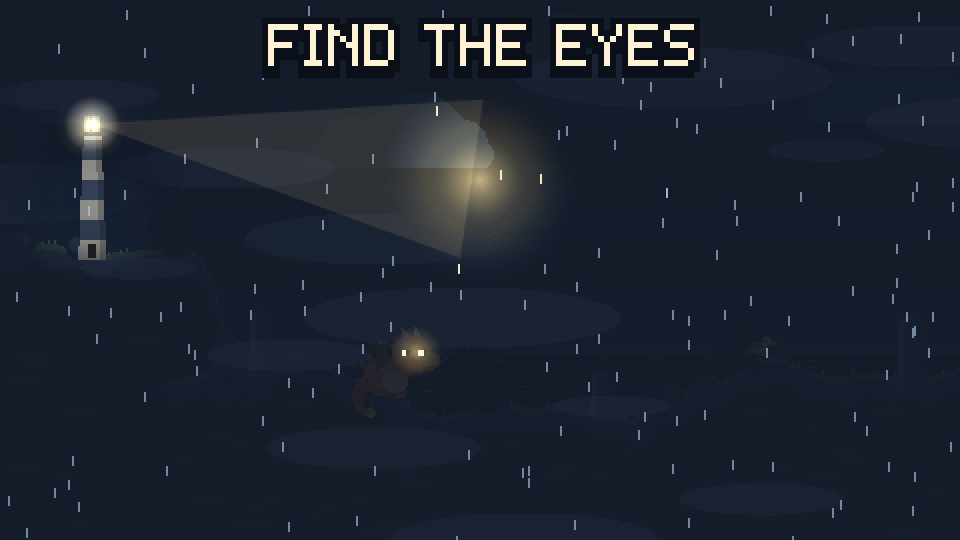
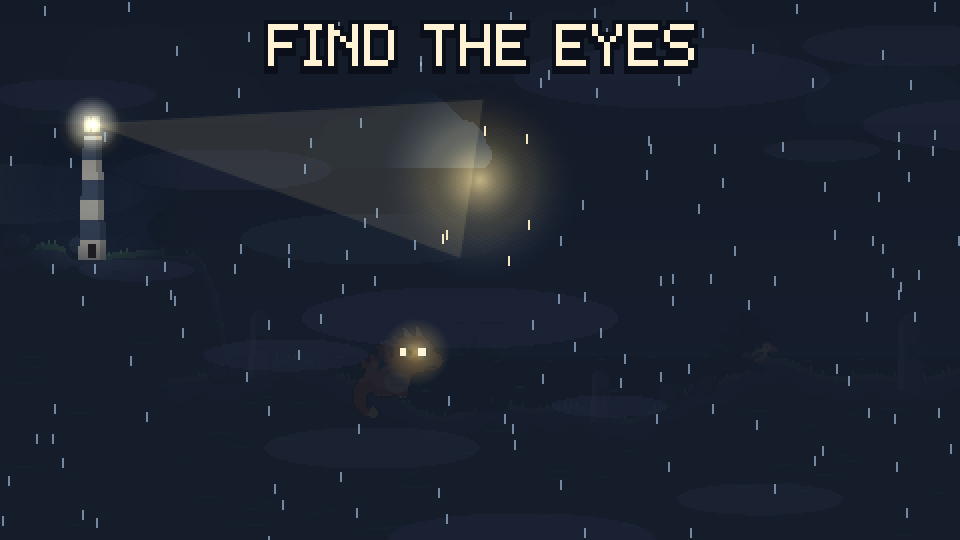
docs + pitch images for phase 2

Changed region(s): [[0.5625, 0.0889, 0.75, 0.1481], [0.9062, 0.4444, 0.9375, 0.4741], [0.5938, 0.6222, 0.625, 0.6519]]

diff --git a/DESIGN_INTENT.md b/DESIGN_INTENT.md
@@ -6,11 +6,11 @@
 | | | |
 |---|---|---|
 | ![](design/02-find-the-eyes.png) | ![](design/03-wing-glow-burst.png) | ![](design/04-brass-swell.png) |
-| *Your light cuts the fog* | *Ember's wings glow again* | *The brass swell: the flock joins* |
+| *Your light cuts the fog* | *Found! A happy wiggle, wings glowing again* | *The brass swell: the flock joins* |
 
 ## Guest experience overview
 
-A guest steps onto the footprints in front of a 10-foot projection, raises a big lantern prop, and becomes the keeper of a tiny northern lighthouse. In **about 40 seconds**, their light finds a frightened young dragon in a storm, gives it the courage to fly, and guides it home under the aurora. There is no losing, no reading, and no clicking. The guest just points a light.
+A guest steps onto the footprints in front of a 10-foot projection, raises a big lantern prop, and becomes the keeper of a tiny northern lighthouse. In **about 38 seconds** (never more than about 41), their light finds a frightened young dragon in a storm, gives it the courage to fly, and guides it home under the aurora. There is no losing, no reading, and no clicking. The guest just points a light.
 
 The line behind them is the audience. While they wait, a storybook on screen turns its own pages and a "ghost" player shows exactly what to do. By the time their turn comes, they already know how to play.
 
@@ -19,10 +19,10 @@ The line behind them is the audience. While they wait, a storybook on screen tur
 | Beat | Time | What the guest sees and does |
 |---|---|---|
 | **Next Flyer** | loop | A storybook shows the storm, the lost dragon, a ghost player demo, and "Hear it in Act II". The screen says *STEP HERE · RAISE YOUR LIGHT*. Holding the light on the lantern for 1 s starts the story. |
-| **1. Find Ember** | ~8 s | A dark, rainy cliff in the fog. The guest's lantern beam, shining from the lighthouse (a nod to the bat-signal proof of concept), cuts through the fog. Two small eyes blink. The guest holds the light steady and a Celtic knotwork ring fills. Jerky light makes Ember flinch; calm light makes it lean in. The ring completes, Ember's wings reignite in a teal and gold burst, and its name appears: **EMBER!** |
-| **2. First Flight** | 20 s | Ember follows the light out over sea stacks and standing stones, through rune rings that arrive on the beat. The flight starts wobbly under slate-blue skies. Then the rings grow larger and golder, the camera pulls back, and at the **brass swell** golden rays fan out, a horn icon appears, and four flock-mates join in formation. A missed ring is never a failure: Ember does a happy loop and the ring's sparkles find it anyway. |
-| **3. Home** | 7 s | The flock circles a stone circle under the northern lights. The path the guest flew is drawn across the sky, then lifts and becomes a **new aurora ribbon that stays for the rest of the evening**. The counter ticks up: *37 DRAGONS HOME TONIGHT*. |
-| **4. Hear it live** | 3 s | *Hear this flight in Act II. From How to Train Your Dragon · Walla Walla Symphony Youth Orchestra · Listen for the brass!* Then the screen returns to *Next Flyer*. |
+| **1. Find Ember** | ~6 s | "EMBER IS LOST!" A dark, rainy cliff in the fog. The guest's lantern beam, shining from the lighthouse (a nod to the bat-signal proof of concept), cuts through the fog. Two small eyes blink. The guest holds the light steady and a Celtic knotwork ring fills. Jerky light makes Ember flinch; calm light makes it lean in. Ember crouches, pops up, does a happy wiggle, and its wings reignite in teal and gold: **EMBER!** |
+| **2. First Flight** | 20 s | Ember follows the light (a dotted trail of light shows it's following *you*) out over sea stacks and standing stones, through rune rings that arrive on the beat. A track across the top shows the journey from the lighthouse to home. The flight starts wobbly under slate-blue skies. Ember cheers at every ring and does a barrel roll after three in a row. At the **brass swell** the sky holds its breath, then golden rays, a knotwork shockwave and confetti burst out, a horn icon appears, and four flock-mates swoop in with light trails. A missed ring is never a failure: Ember does a happy loop and the ring's sparkles find it anyway. |
+| **3. Home** | 6.5 s | The flock circles a stone circle under the northern lights. The path the guest flew is drawn across the sky like a comet, then lifts and becomes a **new aurora ribbon that stays for the rest of the evening**. A shimmer runs across the whole aurora, the counter rolls up (*37 DRAGONS HOME TONIGHT*), and a banner appears: *HEAR IT LIVE IN ACT II*. |
+| **4. Hear it live** | 3 s | Three big lines: *ACT II · How to Train Your Dragon · Listen for the brass!* Then the screen returns to *Next Flyer*. The full credit (Walla Walla Symphony Youth Orchestra) is on the storybook's music page for the line to read while they wait. |
 
 ## The one feeling
 
@@ -39,7 +39,7 @@ It should feel warm, windswept, hopeful and proud. Every guest succeeds, and eve
 - **Prop:** a big cardboard lantern tracked by motion capture drives the on-screen light. A mouse or touch works as a backup, with no code changes.
 - **Operator:** one laptop running the game locally (no internet needed). Hidden keys: fullscreen, reset, skip, debug, clear, audio.
 - **Sound:** not required. The lobby is loud and the game is fully visual. Optional ambience can be turned on if the space allows.
-- **Throughput:** about 40 s per guest plus a short handoff, so roughly 30-35 guests per 30-minute shift, or 100+ over the 90-minute pre-show. The game resets itself after 10 s without input.
+- **Throughput:** about 38 s per guest plus a short handoff, so roughly 35 guests per 30-minute shift, or 100+ over the 90-minute pre-show. The game resets itself after 10 s without input.
 - **Accessibility:** no flashing faster than 3 times per second, no fail states, and color is never the only signal (brightness, shape and motion carry every cue). It works seated, and a phone version works in landscape via the public URL.
 
 ## How it connects to the music

diff --git a/README.md b/README.md
@@ -63,12 +63,13 @@ The aurora (every guest's ribbon, plus the "N dragons home tonight" count) is sa
 | Scene | Target | Notes |
 |---|---|---|
 | Attract | loop | 1 s hold on the lantern starts a run |
-| Find Ember | ~6-10 s | 2 s steady hold on the eyes. Assists at 4 s (sparks lead the way), 6.5 s (Ember hops to the light) and 9.5 s (auto-complete) |
-| Flight | 20 s fixed | Rings on the beat (120 BPM). Brass swell at 62%, climb at 90% |
-| Home | 7 s | Ribbon joins the aurora, counter ticks up |
-| End card | 3 s | Hold the small lantern to skip |
+| Find Ember | ~5-8 s | Opens with "EMBER IS LOST!", then a 2 s steady hold on the eyes. Assists at 3 s (sparks lead the way), 4.5 s (Ember hops to the light) and 7 s (auto-complete) |
+| Flight | 20 s fixed | Rings on the beat (120 BPM), a lighthouse-to-home track across the top. Brass swell at 62% (with a ~0.7 s wind-up), climb at 90% |
+| Home | 6.5 s | Ribbon lifts into the aurora, a shimmer runs across the sky, the counter rolls up, then "HEAR IT LIVE IN ACT II" |
+| End card | 3 s | "ACT II", the title, "LISTEN FOR THE BRASS!". Hold the small lantern to skip |
+| Scene fades | 0.4 s | `DUR.FADE` |
 
-Measured by the Playwright suite: **~39 s** for a typical guest, **~44 s** for a guest who never finds Ember on their own. **Idle reset:** 10 s without input during Find Ember or Flight returns to attract. The assists only count time while someone is actually pointing, so an abandoned game resets instead of playing itself.
+Measured by the Playwright suite: **~38 s** for a typical guest, **~40.5 s** for a guest who never finds Ember on their own (the test fails above 41 s). **Idle reset:** 10 s without input during Find Ember or Flight returns to attract. The assists only count time while someone is actually pointing, so an abandoned game resets instead of playing itself.
 
 ## Connecting a motion-capture cursor
 
@@ -139,6 +140,7 @@ This builds the site, serves it, and runs Playwright:
 - **`tests/fullrun.spec.js`**: a scripted guest plays a whole run by pointer only. It asserts 35-45 s, that the ribbon persists across a refresh, that a guest who never finds Ember still finishes in time, and that the end card can be skipped.
 - **`tests/idle.spec.js`**: walking away during Find Ember or Flight resets to attract after about 10 s.
 - **`tests/input.spec.js`**: the mocap pointer path, the clear confirmation, and the portrait "rotate your phone" hint.
+- **`tests/story.spec.js`**: the story beats show up when they should: "EMBER IS LOST!" first, the Act II line during Home, and the brass swell's wind-up, firing and flock join.
 - **`tests/screenshots.spec.js`**: `npm run shots` writes every scene at 1920×1080 and phone landscape to `tests/screens/`.
 
 ## Code map

diff --git a/notes/phase2.md b/notes/phase2.md
@@ -1,0 +1,19 @@
+# phase 2: make it better
+
+| thing | after phase 1 | after phase 2 |
+|---|---|---|
+| playwright suite | 30 tests | 51 tests (story.spec + more screenshots) |
+| typical run | 39.0s | ~37.9s |
+| assisted run (never finds ember) | 44.3s | ~40.5s (test now fails above 41s) |
+| idle reset | 10.5s | 10.5s (now measured on the game clock) |
+
+## what changed, in the order we did it
+1. headroom: assists at 3 / 4.5 / 7s (were 4 / 6.5 / 9.5), fades 0.4s everywhere, home 6.5s
+2. end card: "HEAR IT LIVE IN ACT II" banner during home, end card down to 3 big lines, full orchestra credit on the storybook music page
+3. story: "EMBER IS LOST!" opener, lighthouse-to-home journey track in flight, dotted light tether to ember
+4. readability: no guest text under scale 2, outline capped at 2px so big words stop looking like slabs, bigger eye glints, stronger unfilled rings, demo fog matches the real scene
+5. juice: random natural blinks, flap squash and stretch, crouch-pop-wiggle when found, cheer hop on rings, barrel roll every 3 in a row, sine camera rumble, gentle vertical camera follow, brass swell wind-up + shockwave + confetti + flock trails, home comet + lift sparkles + aurora shimmer + odometer counter
+
+## known caveat
+if the lobby laptop drops under 20fps the game clock runs slow (dt is capped at 50ms so nothing
+teleports). runs just take longer, nothing breaks. D shows FPS, worth checking on the real laptop.
